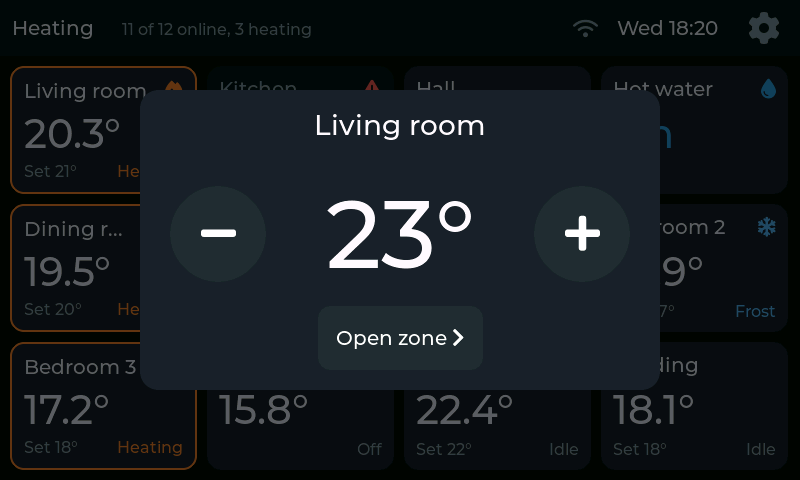
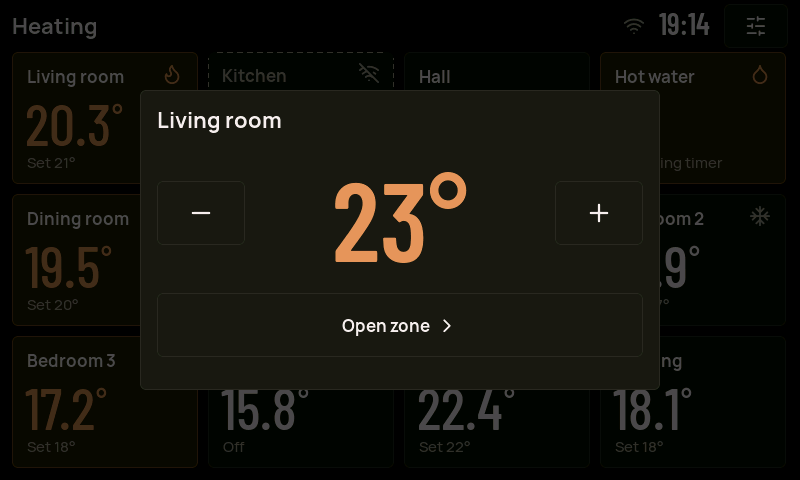
Docs and screenshots for the Copper screens
Claude-Session: https://claude.ai/code/session_01Gw18PV9RMHuNawibr14fQd

diff --git a/docs/bench-milestone3.md b/docs/bench-milestone3.md
@@ -2,7 +2,8 @@
 
 Milestone 3 puts the stats on the screen. The board now boots into a
 dashboard of zone tiles driven by the poller, with a detail screen per zone
-and a setup screen to scan, name and remove stats. It remembers its zones
+hot water, schedule, rename and settings screens, and a zones screen to
+scan, name and remove stats. The look follows the Copper design doc. It remembers its zones
 and their names across reboots, joins Wi-Fi for the clock, and has a drift
 test pattern for the soak.
 
@@ -21,10 +22,18 @@ more in [screens/](screens/).
 
 | Screen | What it shows | What you can do |
 | --- | --- | --- |
-| Dashboard | A tile per stat: name, room temperature, setpoint, flame when heating, padlock, offline or fault badge; a hot water tile after the PRT/HW-N. 4 across, 3 down, scrolls past 12. Wi-Fi and clock in the header | Tap a tile to open the zone. Long-press for a quick +/- popup. Tap the hot water tile for Timer, On and Off. Gear icon for setup |
-| Zone | Room temperature and the sensor it comes from, floor temperature if fitted, heating now or not, hold time left, faults, last update | Setpoint dial and +/- buttons, Heat / Frost / Off, hold for 1 to 24 h, key lock, tap the name to rename |
-| Setup: Thermostats | Every saved stat with its address, model and state, and scan progress | Scan bus, Rename, Identify (blinks the stat's padlock), Remove |
-| Setup: System | Wi-Fi, clock, uptime, memory, frames drawn, firmware | Screen timeout, drift test pattern on or off |
+| Dashboard | A tile per stat: name, room temperature, setpoint, flame when heating, padlock, offline (dashed) or fault tile; a hot water tile after the PRT/HW-N. 4 across, 3 down, scrolls past 12. Wi-Fi and clock in the header | Tap a tile to open the zone or hot water. Long-press a zone for a quick +/- popup. Sliders icon for Settings |
+| Zone | Setpoint dial, room temperature, sensor, floor temperature if fitted, hold or holiday, faults, last update | Dial and +/- buttons, Heat / Frost / Off, hold Off / 1 h / 4 h / 24 h, key lock, Schedule; pencil to rename |
+| Hot water | On or off, why (timer, forced, boost), the next switch, today's timer as a strip | Resume timer, Force on, Force off, boost 30 / 60 / 120 min, Edit timer |
+| Schedule | The four comfort levels (or hot water on/off times) for Weekdays and Weekend, or each day in 7-day mode, and a 24 h profile | Tap a time or temperature to change it, or mark a level Not used; Copy to the other days |
+| Rename | The name with a 16 character counter | On-screen keyboard; the default-name key puts back "Zone N" |
+| Settings | Timezone, units, poll interval, master address, display timeout, PIN | Change timezone, poll interval and timeout; Zones and scan, Bus diagnostics, System; Sync clocks now, Holiday for all zones, Factory reset |
+| Zones and scan | Scan progress over addresses 1 to 32, every saved stat with model and state | Scan, tap a name to rename, Identify (blinks the stat's padlock), Remove |
+| Bus diagnostics | Polls, timeouts, CRC errors and last seen per stat, the last bus frames | Clear counters, Single read |
+| System | Wi-Fi, clock, uptime, memory, frames drawn, firmware | Drift test pattern on or off |
+
+Units are fixed at °C, the master address is shown only, and PIN and Matter
+say they come later.
 
 Setpoint taps wait 0.7 s after the last tap before going on the bus, so five
 taps make one write. Until the stat confirms a change the screen shows
@@ -73,7 +82,8 @@ moment after the first frame is drawn.
 ## 1. Find the stats
 
 The dashboard says "No thermostats yet". Tap **Scan for thermostats** (or the
-gear icon, then **Scan bus**). The setup screen shows progress over addresses
+sliders icon, **Zones and scan**, then **Scan the bus**). The zones screen
+shows progress over addresses
 1 to 32 and should find 11 stats in about 15 seconds; stat 2 will not answer,
 as before. Every stat found is saved and starts polling at once.
 
@@ -88,8 +98,8 @@ It shows a grey **Offline** tile and costs one timeout a minute on the bus.
 
 ## 2. Name the zones
 
-On the setup screen, tap **Rename** on a row and type the name you noted from
-the Touchpad (16 characters at most), then the tick key. Or, quicker for
+On **Zones and scan**, tap a zone's name and type the name you noted from
+the Touchpad (16 characters at most), then **Save**. Or, quicker for
 eleven of them, use the console:
 
 ```
@@ -118,15 +128,22 @@ Pick a stat you can see:
 3. Drag the dial. Same result, one write when you let go.
 4. Tap **Frost**, then **Heat**, then **Off**, then back. The stat should
    follow each one; the dial greys out in Frost and Off.
-5. **Hold...**, then **Hold 1 h**. The left side shows "Held for 1 h 00 min".
-   Then **No hold**.
-6. Tap **Unlocked** to lock the keys, check the padlock on the stat, then
-   unlock.
+5. Under **HOLD**, tap **1 h**. The info card shows the hold time left.
+   Then **Off**.
+6. Tap **Key lock** to lock the keys, check the padlock on the stat, then
+   tap it again to unlock.
 7. Back on the dashboard, long-press a tile. The popup's +/- change the
    setpoint the same way; it closes after 5 seconds or a tap outside.
-8. Tap the hot water tile. **On** should turn the hot water on at the
-   PRT/HW-N (address 3), **Off** off, and **Timer** hands it back to its
-   programme.
+8. Tap the hot water tile. **Force on** should turn the hot water on at the
+   PRT/HW-N (address 3), **Force off** off, and **Resume timer** hands it
+   back to its programme. **30 min** boosts it; the header counts down and
+   the stat goes back to its timer when the boost ends (or at once if you
+   tap the boost again).
+9. Tap **Schedule** on a zone. The levels should match the stat's own
+   programme. Change one time by 10 minutes, tap **Set**, and check the stat
+   shows it; then put it back.
+10. In **Settings**, **Bus diagnostics** should show every stat's poll count
+    rising and the frames going by.
 
 Pull the bus pair from the board for a minute to see the tiles go to
 **Offline** after three missed polls (about 30 s), then plug it back in.
@@ -154,8 +171,8 @@ name, and the tiles fill in as each stat is read (about 10 s).
 ## 6. The 24 hour soak (the gate)
 
 Set the board up where it will run, on its 5 V supply, with the bus connected
-and Wi-Fi joined. Then turn on the drift test pattern: gear, **System**,
-**Drift test pattern** on. (Or `display soak on`.)
+and Wi-Fi joined. Then turn on the drift test pattern: sliders icon,
+**System**, **Drift test pattern**. (Or `display soak on`.)
 
 The pattern draws a white 1 px frame on the outermost pixels with a red frame
 2 px inside it, a coloured square in each corner, an orange bar sliding along
@@ -193,7 +210,7 @@ The gate passes when, after 24 hours:
   `ping_ok`;
 - `int_min`, the lowest free internal RAM, has stopped falling.
 
-Turn the pattern off afterwards (switch, or `display soak off`), which prints
+Turn the pattern off afterwards (the same button, or `display soak off`), which prints
 a final `DSOAK end` line.
 
 ## What to send back
@@ -217,7 +234,7 @@ a final `DSOAK end` line.
 | `display soak on/off/now` | Drift test pattern and load; `now` prints a DSOAK line |
 | `display timeout <s>` | Blank after this many seconds idle, 0 = never (saved) |
 | `display backlight on/off`, `display restart` | Backlight; restart the panel DMA |
-| `screen dash`, `screen zone <addr>`, `screen setup` | Show a screen without touching it |
+| `screen dash`, `screen zone/schedule/timer/hotwater/rename <addr>`, `screen settings/zones/diag/system` | Show a screen without touching it |
 
 `poll`, `set`, `gate` and the milestone 1 commands still work. A `poll scan`
 from the console adds what it finds to the saved zones too; `poll add` and

diff --git a/components/ui/fonts/README.md b/components/ui/fonts/README.md
@@ -1,12 +1,20 @@
 # Fonts
 
 Generated with [lv_font_conv](https://github.com/lvgl/lv_font_conv) 1.5.2 by
-`tools/gen_fonts.sh`; do not edit by hand.
+`tools/gen_fonts.sh` for the Copper design; do not edit by hand.
 
 | File | Font | Glyphs |
 | --- | --- | --- |
-| `hm_icons_20.c`, `hm_icons_32.c` | Font Awesome 6 Free Solid (`fa-solid-900.ttf`, from `@fortawesome/fontawesome-free` 6.5.2) | fire, snowflake, lock, droplet, power, wifi, warning, clock, thermometer, gear, bolt |
-| `hm_num_64.c`, `hm_num_96.c` | Montserrat Medium (`Montserrat-Medium.ttf` from LVGL's `scripts/built_in_font`) | space, `-`, `.`, `0`-`9`, `°` |
+| `hm_mr500_15.c` | Manrope Medium 15 (`@fontsource/manrope` 5.1.0) | ASCII, `°`, `·`, `–`, `…`; icons from `hm_icon_18` |
+| `hm_mr700_15.c`, `hm_mr700_17.c`, `hm_mr700_22.c` | Manrope Bold 15, 17, 22 | as above; icons from `hm_icon_18` (15) or `hm_icon_22` (17, 22) |
+| `hm_bc600_20.c`, `hm_bc600_30.c`, `hm_bc600_44.c` | Barlow Condensed SemiBold 20, 30, 44 (`@fontsource/barlow-condensed` 5.1.0) | as Manrope |
+| `hm_bc500_58.c` | Barlow Condensed Medium 58 | space, `-`, `.`, `0`-`9`, `:`, `°`, `E` (tile temperatures, fault codes) |
+| `hm_bc600_112.c` | Barlow Condensed SemiBold 112 | space, `-`, `.`, `0`-`9`, `:`, `°` (setpoint dial, schedule editor) |
+| `hm_bc600_150.c` | Barlow Condensed SemiBold 150 | space, `-`, `F`, `N`, `O` (hot water ON / OFF) |
+| `hm_icon_18.c`, `hm_icon_22.c`, `hm_icon_28.c` | Lucide (`lucide-static` 0.460.0) | the 34 icons listed in `tools/gen_fonts.sh`, in the order of the `HM_ICON_*` macros in `ui_internal.h` |
 
-Font Awesome Free icons are CC BY 4.0 and its font files SIL OFL 1.1;
-Montserrat is SIL OFL 1.1.
+The Manrope fonts fall back to an icon font, so a label can mix an icon and
+text. The 18 and 22 px icons sit 3 and 5 px lower than Lucide draws them, so
+they centre on the capitals of the text beside them.
+
+Manrope and Barlow Condensed are SIL OFL 1.1; Lucide is ISC licensed.

diff --git a/README.md b/README.md
@@ -15,9 +15,9 @@ wire protocol is Heatmiser's V3.9 RS485 protocol document.
 | `hm_sched`: write queue first, round-robin full-DCB poll, read-back confirmation, retries, offline back-off, scan (pure C) | Done, host tested against simulated stats |
 | `hm_bus`: UART1 at 4800 8N1, TX GPIO16 / RX GPIO15, one transaction at a time | Done, bench proven (milestone 1) |
 | `hm_poller`: the bus task running `hm_sched` on the board | Done, bench proven (milestone 2) |
-| `zone_store`: saved zone list and names in NVS, a live view of each stat, pending writes with failure notices | Done; the view and the saved format are host tested |
+| `zone_store`: saved zone list and names in NVS, a live view of each stat (including its programme), pending writes with failure notices, hot water boost, clock sync, holiday for all, bus counters and frame trace | Done; the view, programme helpers and saved format are host tested |
 | `board`: Waveshare 7" RGB panel with bounce buffers, GT911 touch, CH422G backlight, LVGL 9 via esp_lvgl_port | Built; first run on the board due |
-| `ui`: dashboard, zone detail, setup (scan, rename, identify, remove), drift test pattern | Built; desktop preview renders every screen |
+| `ui`: the Copper design. Dashboard, zone detail, hot water with boost, schedule and hot water timer editing, rename keyboard, settings, zones and scan, bus diagnostics, system, drift test pattern | Built; desktop preview renders every screen ([docs/screens](docs/screens/)) |
 | `net`: Wi-Fi station, SNTP clock, timezone | Built |
 | Gate: no drift during a 24 h soak with Wi-Fi on | Due; see [bench-milestone3.md](docs/bench-milestone3.md) |
 
